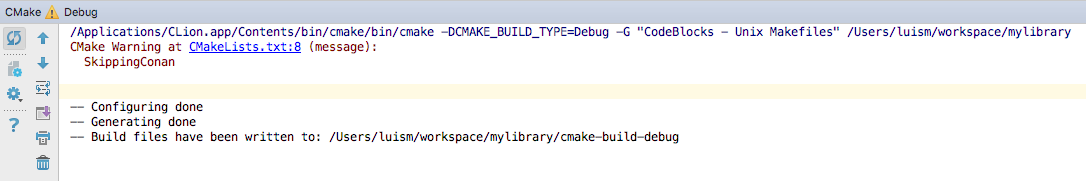
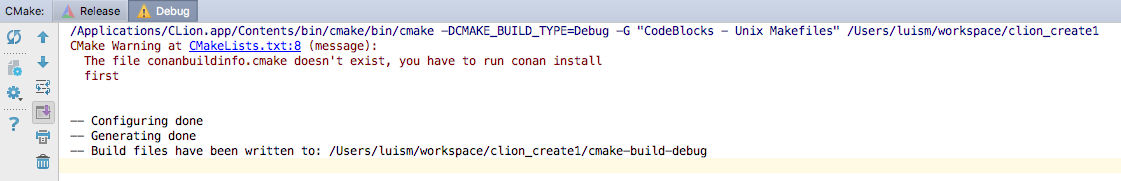
Changes review

Changed region(s): [[0.0, 0.0, 1.0, 0.9669]]

diff --git a/integrations/clion.rst b/integrations/clion.rst
@@ -17,7 +17,7 @@ Just include the ``conanbuildinfo.cmake`` this way:
        include(${CMAKE_BINARY_DIR}/conanbuildinfo.cmake)
        conan_basic_setup()
    else()
-       message(WARNING "Skipping Conan")
+       message(WARNING "The file conanbuildinfo.cmake doesn't exist, you have to run conan install first")
    endif()
 
 If the ``conanbuildinfo.cmake`` file is not found, it will print a warning message in the ``Messages`` console of your Clion IDE.
@@ -40,7 +40,7 @@ Let see an example of how to use Conan requirements to a CLion project.
        include(${CMAKE_BINARY_DIR}/conanbuildinfo.cmake)
        conan_basic_setup()
    else()
-       message(WARNING "Skipping Conan")
+       message(WARNING "The file conanbuildinfo.cmake doesn't exist, you have to run conan install first")
    endif()
 
 |cmakelists|
@@ -80,7 +80,7 @@ setting accordingly:
 
 .. code-block:: bash
 
-   $ cd cmake-build-debug
+   $ cd cmake-build-release
    $ conan install ../ -s build_type=Release
 
 7. Now reconfigure your CLion project, the Warning message is not shown anymore:
@@ -98,6 +98,7 @@ detect the ``zlib.h`` header file from the local conan cache.
 |built_ok|
 
 
+You can check a full example of a CLion project reusing conan packages in this github repository: `lasote/clion-conan-consumer <https://github.com/lasote/clion-conan-consumer>`_.
 
 
 Creating conan packages in a CLion project
@@ -117,7 +118,7 @@ Now we are going to see how to create a conan package from the previous library.
        include(${CMAKE_BINARY_DIR}/conanbuildinfo.cmake)
        conan_basic_setup()
    else()
-       message(WARNING "Skipping Conan")
+       message(WARNING "The file conanbuildinfo.cmake doesn't exist, you have to run conan install first")
    endif()
 
 |cmakelists|
@@ -195,10 +196,13 @@ to a conan server.
 .. code-block:: bash
 
    $ conan export myuser/channel
-   $ conan upload mylibrary/1.0@myuser/channel
+   $ conan upload mylibrary/1.0@myuser/channel # This will upload only the recipe, use --all to upload all the generated binary packages
 
 8. Instead of the local ``package`` local command, you could use the ``-t`` option in the ``conan new`` and use the
 ``conan test_package``. Check :ref:`Creating packages getting started guide<packaging_getting_started>`.
+
+
+You can check a full example of a CLion project for creating a conan package in this github repository: `lasote/clion-conan-package <https://github.com/lasote/clion-conan-package>`_.
 
 
 .. |clion_logo| image:: ../images/clion/icon_CLion.png
